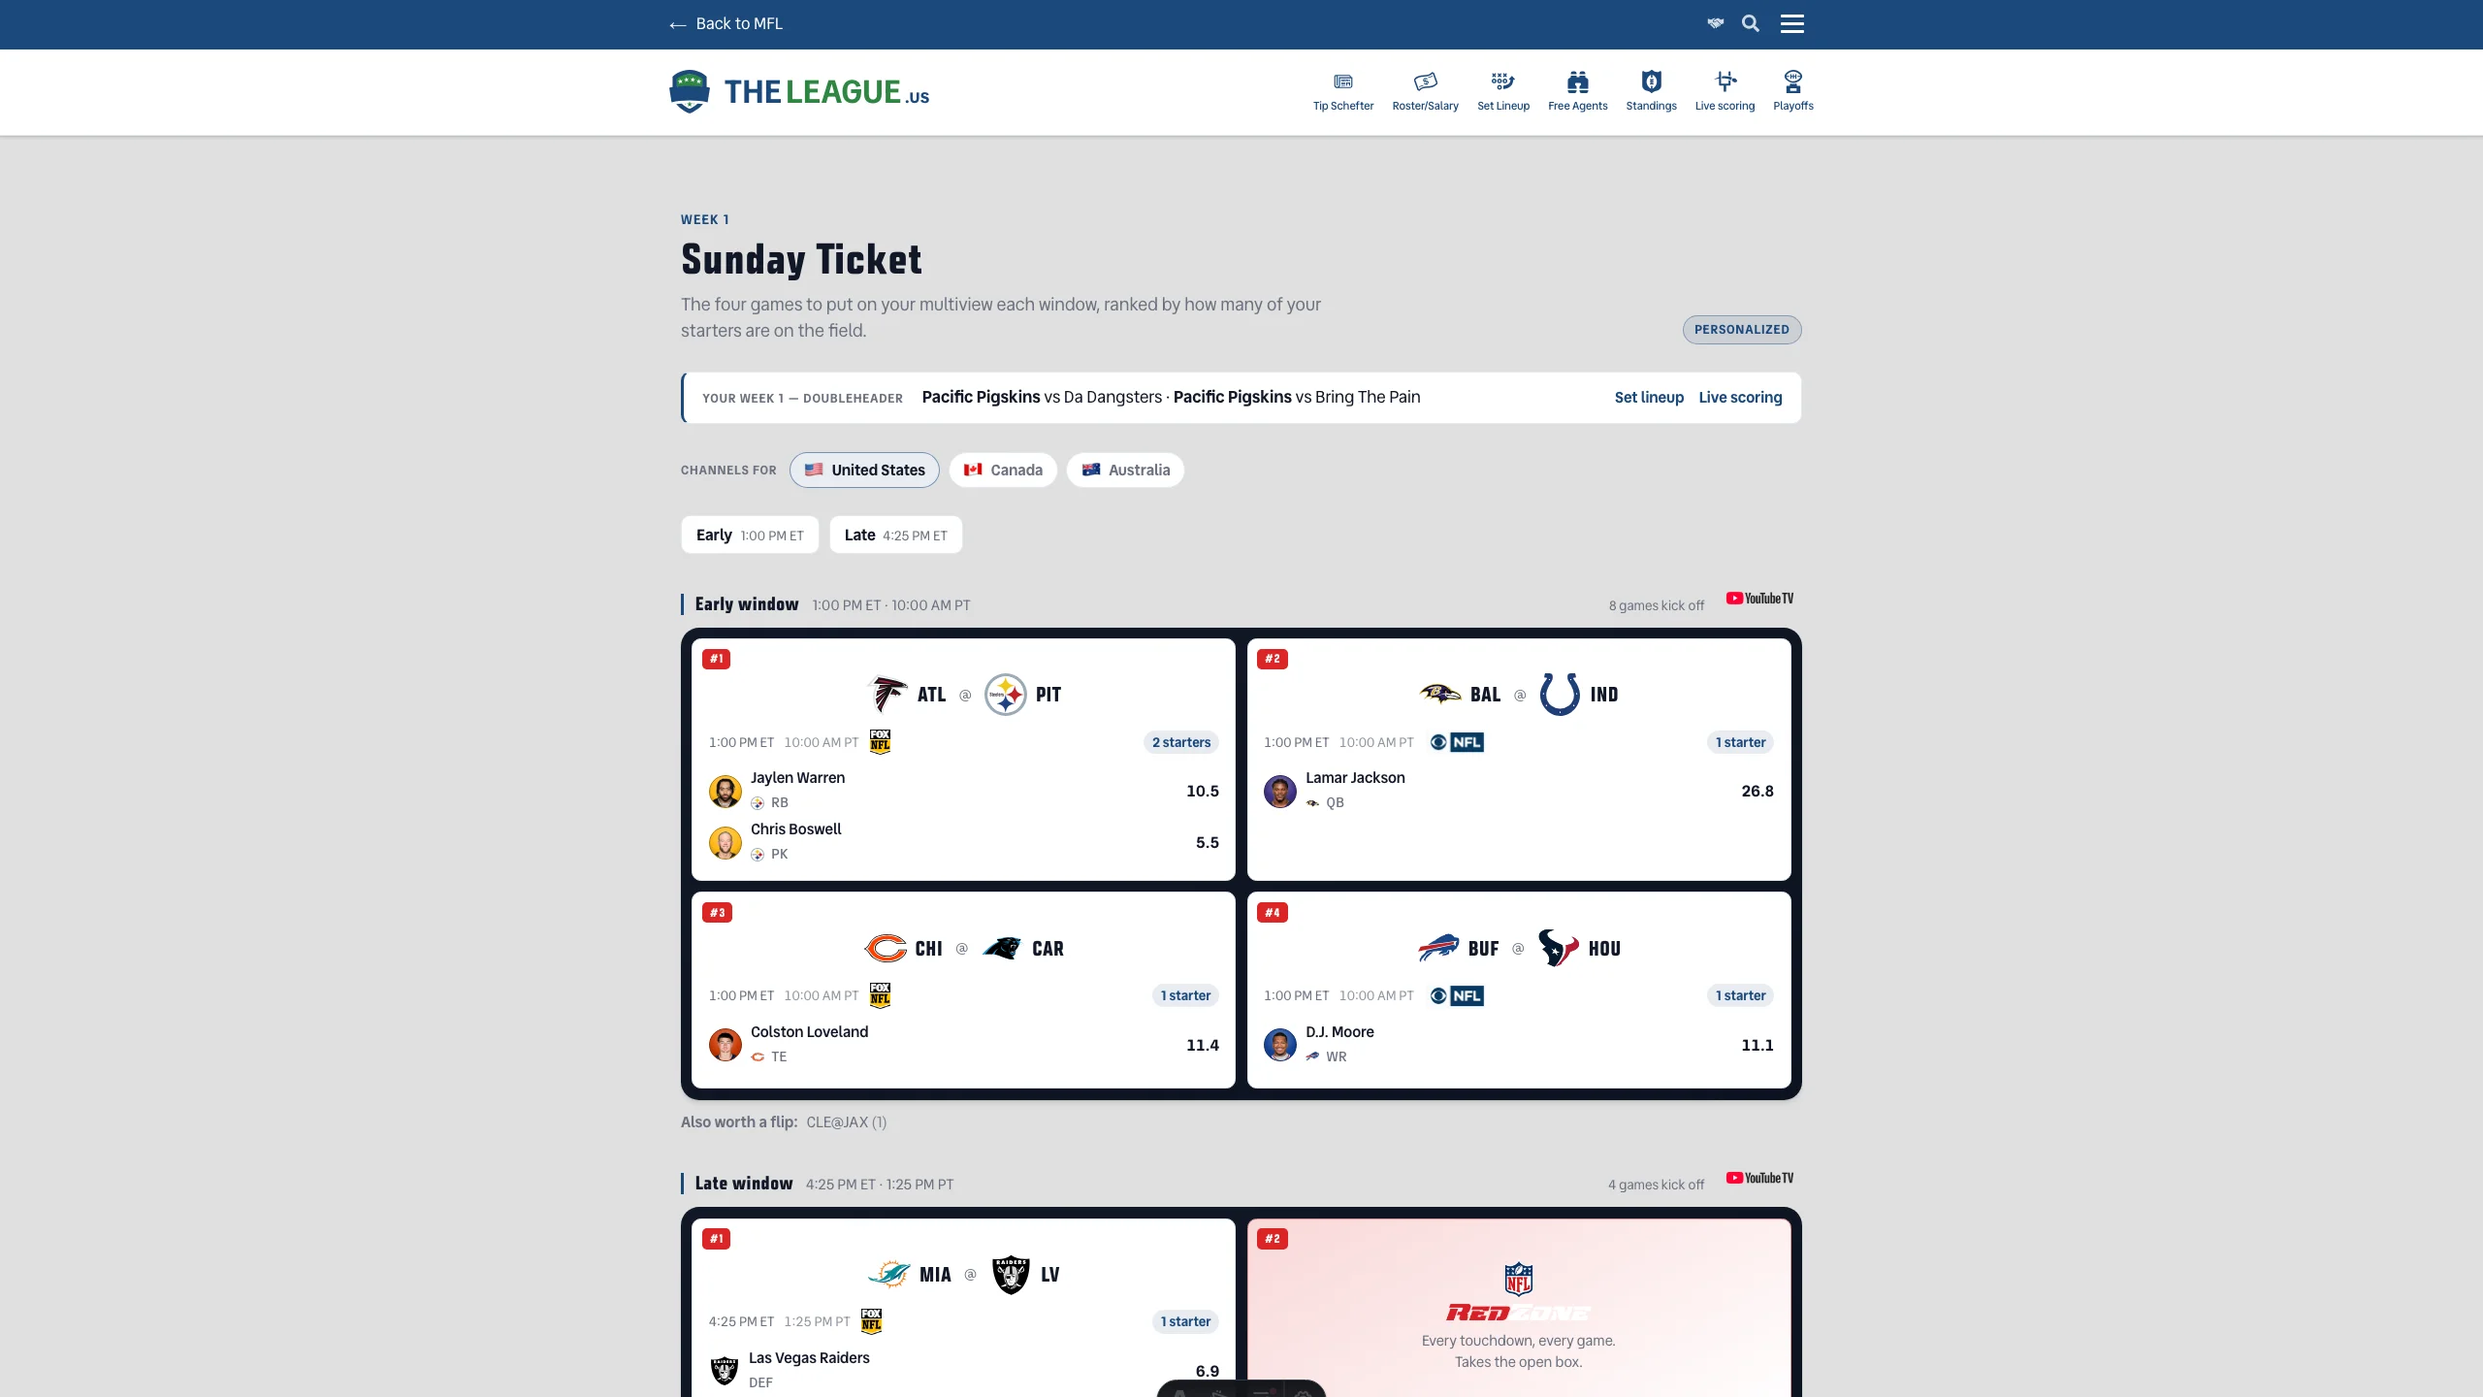
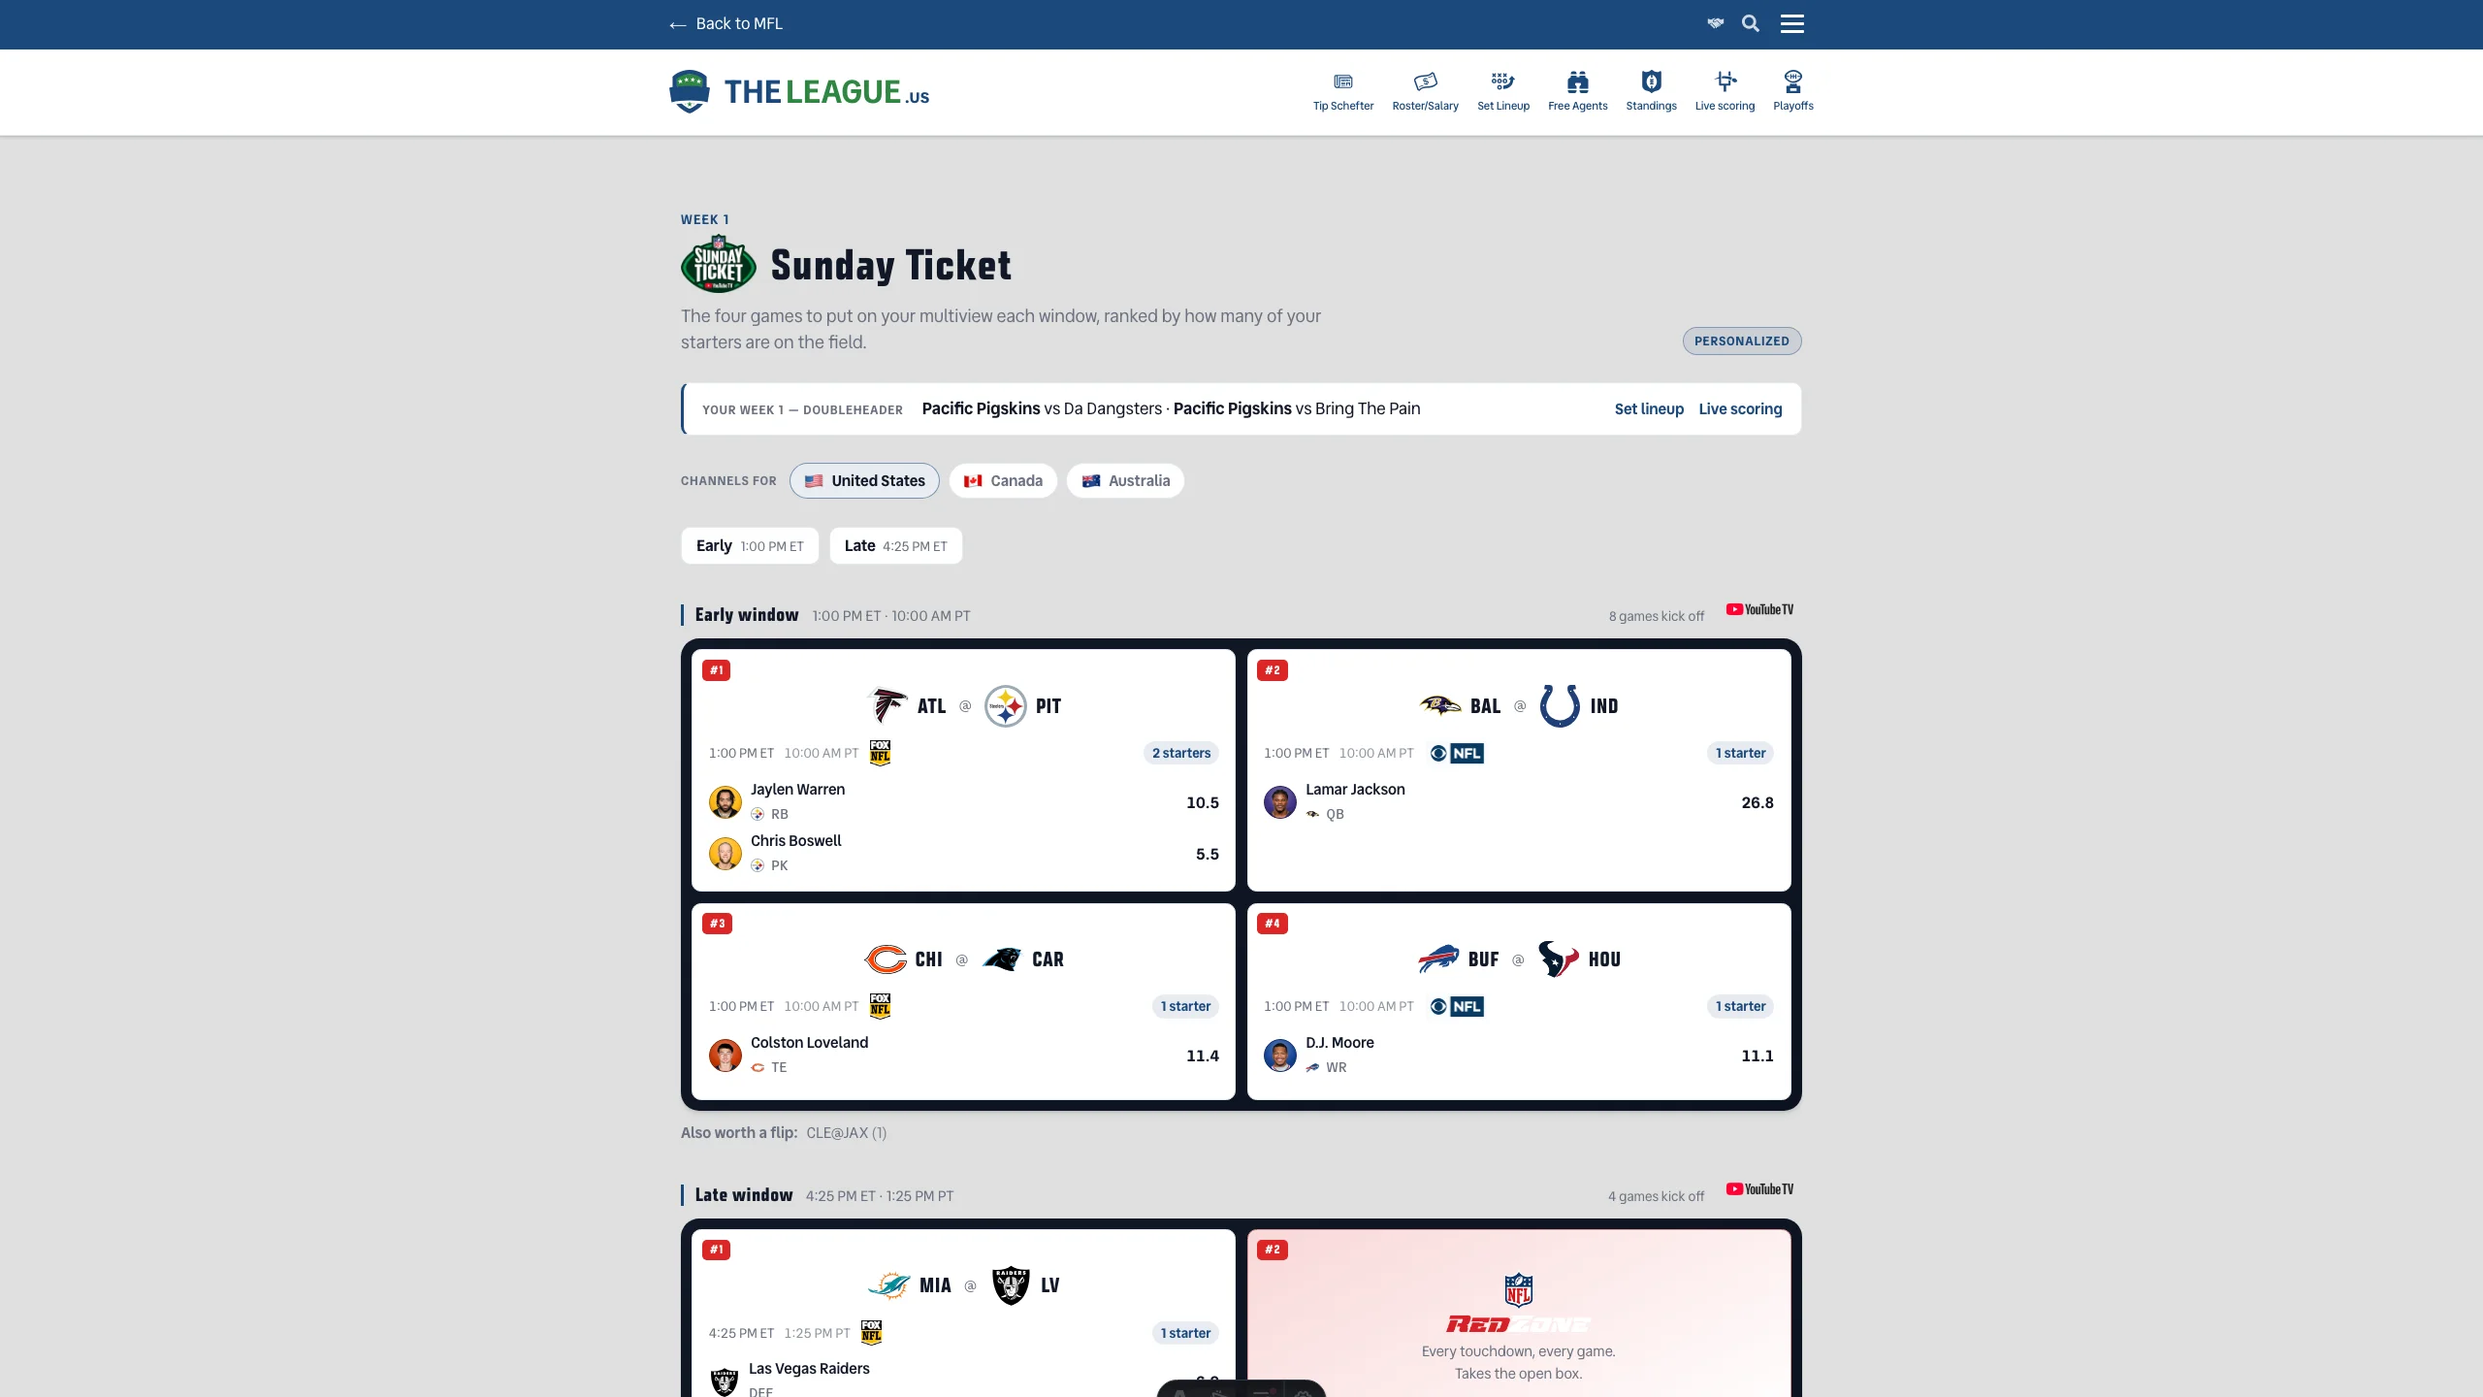
Sunday Ticket: the site's leagues by default, outside leagues folded; the official mark
- Default set is now the leagues this site runs (TheLeague, the AFL, Best
  Ball). Outside leagues from `myleagues` start OFF and sit behind one
  "Other leagues" chip (a native <details>, open when any is on) — an owner
  with a few test leagues, or in six other people's leagues, was getting a
  row of chips and every one of them counted. An outside league that is off
  is never fetched from MFL, so the rate-limited reads only happen for
  leagues actually turned on. `defaultLeagueSelection` owns the default;
  toggles collapse to it (`?leagues=default`), never to an empty board.
- The official NFL Sunday Ticket mark heads the page (public/assets/
  tv-logos/nfl-sunday-ticket.png, fair-use like the network marks). It is
  measured with the rest — 41.7% legible on the dark card, so it takes the
  crest ring under html.dark; manifest re-run.
- Stories: MultiLeague/Canada opt the outside league in explicitly;
  OutsideFolded pins the default.

diff --git a/src/utils/sunday-ticket-selection.ts b/src/utils/sunday-ticket-selection.ts
@@ -50,15 +50,26 @@ export interface BoardLeague {
 // ── League selection (URL param ↔ cookie) ────────────────────────────────
 
 /**
+ * The board's default set: every league this site runs (TheLeague, the AFL,
+ * Best Ball) that the owner is in. Outside leagues start OFF — an owner with a
+ * few test leagues, or in six other people's leagues, should not have all of
+ * them counted (and fetched) until they say so.
+ */
+export function defaultLeagueSelection(leagues: readonly Pick<BoardLeague, 'id' | 'registered'>[]): string[] {
+  return leagues.filter((l) => l.registered).map((l) => l.id);
+}
+
+/**
  * Parse a `?leagues=` value (or the cookie) against the leagues actually on
- * the board. `null` means "all" — the default, and also the answer to an
- * empty or garbage value, so a stale cookie can never blank the board.
- * Returns ids in the order given, deduplicated, unknown ids dropped.
+ * the board. `null` means "the default set" — also the answer to an empty or
+ * garbage value, so a stale cookie can never blank the board. Returns ids in
+ * the order given, deduplicated, unknown ids dropped. The literal `default`
+ * (and the older `all`) both mean null.
  */
 export function parseLeagueSelection(raw: string | null | undefined, available: readonly string[]): string[] | null {
   if (!raw) return null;
   const trimmed = raw.trim();
-  if (!trimmed || trimmed === 'all') return null;
+  if (!trimmed || trimmed === 'all' || trimmed === 'default') return null;
   const allowed = new Set(available);
   const seen = new Set<string>();
   const ids: string[] = [];
@@ -71,20 +82,30 @@ export function parseLeagueSelection(raw: string | null | undefined, available: 
   return ids.length > 0 ? ids : null;
 }
 
-/** The set after toggling `id` — never empty: turning off the last league turns everything back on. */
-export function toggleLeagueSelection(enabled: readonly string[], all: readonly string[], id: string): string[] | null {
+/**
+ * The set after toggling `id`, normalized to board order. Collapses to `null`
+ * (the default) when it equals the default set, so the URL and cookie stay
+ * clean; turning off the last league falls back to the default rather than
+ * an empty board.
+ */
+export function toggleLeagueSelection(
+  enabled: readonly string[],
+  all: readonly string[],
+  id: string,
+  defaults: readonly string[] = all,
+): string[] | null {
   const next = enabled.includes(id) ? enabled.filter((x) => x !== id) : [...enabled, id];
   if (next.length === 0) return null;
-  // Normalize to board order so two routes to the same set produce the same URL.
   const ordered = all.filter((x) => next.includes(x));
-  return ordered.length === all.length ? null : ordered;
+  const isDefault = ordered.length === defaults.length && ordered.every((x) => defaults.includes(x));
+  return isDefault ? null : ordered;
 }
 
 /** Build the page href for a selection, preserving `?week=` when it was set. */
 export function leagueSelectionHref(pathname: string, selection: string[] | null, week: number | null): string {
   const params = new URLSearchParams();
   if (week !== null) params.set('week', String(week));
-  params.set('leagues', selection ? selection.join(',') : 'all');
+  params.set('leagues', selection ? selection.join(',') : 'default');
   return `${pathname}?${params.toString()}`;
 }
 
@@ -120,7 +141,7 @@ export interface CookieJar {
 export function rememberSundayTicketChoices(url: URL, cookies: CookieJar): void {
   const opts = { maxAge: LEAGUE_SELECTION_MAX_AGE, path: '/', sameSite: 'lax' as const };
   const leagues = url.searchParams.get('leagues');
-  if (leagues !== null) cookies.set(LEAGUE_SELECTION_COOKIE, leagues.trim() || 'all', opts);
+  if (leagues !== null) cookies.set(LEAGUE_SELECTION_COOKIE, leagues.trim() || 'default', opts);
   const country = url.searchParams.get('country');
   if (country !== null) cookies.set(COUNTRY_COOKIE, country.trim().toUpperCase(), opts);
 }

diff --git a/tests/sunday-ticket-page.test.ts b/tests/sunday-ticket-page.test.ts
@@ -17,6 +17,7 @@ describe('parseLeagueSelection — URL param and cookie share one parser', () =>
     expect(parseLeagueSelection(null, BOARD)).toBeNull();
     expect(parseLeagueSelection('', BOARD)).toBeNull();
     expect(parseLeagueSelection('all', BOARD)).toBeNull();
+    expect(parseLeagueSelection('default', BOARD)).toBeNull();
     expect(parseLeagueSelection('99999,nope', BOARD)).toBeNull();
   });
 
@@ -30,20 +31,30 @@ describe('toggleLeagueSelection', () => {
     expect(toggleLeagueSelection(BOARD, BOARD, AFL.id)).toEqual([DEFAULT_LEAGUE.id, '55555']);
   });
 
-  it('turns a league back on, and a full set collapses to null (all)', () => {
-    expect(toggleLeagueSelection([DEFAULT_LEAGUE.id], BOARD, AFL.id)).toEqual([DEFAULT_LEAGUE.id, AFL.id]);
+  it('turns a league back on, and a set equal to the DEFAULT collapses to null', () => {
+    const defaults = [DEFAULT_LEAGUE.id, AFL.id]; // the leagues this site runs
+    expect(toggleLeagueSelection([DEFAULT_LEAGUE.id], BOARD, AFL.id, defaults)).toBeNull();
+    expect(toggleLeagueSelection([DEFAULT_LEAGUE.id, AFL.id], BOARD, '55555', defaults)).toEqual(BOARD);
+    // With no defaults given the full board is the default (the old behavior).
     expect(toggleLeagueSelection([DEFAULT_LEAGUE.id, '55555'], BOARD, AFL.id)).toBeNull();
   });
 
-  it('never leaves the board empty — turning off the last league turns everything on', () => {
-    expect(toggleLeagueSelection([AFL.id], BOARD, AFL.id)).toBeNull();
+  it('never leaves the board empty — turning off the last league falls back to the default', () => {
+    expect(toggleLeagueSelection([AFL.id], BOARD, AFL.id, [DEFAULT_LEAGUE.id, AFL.id])).toBeNull();
+  });
+
+  it('defaultLeagueSelection is the registered leagues only', async () => {
+    const { defaultLeagueSelection } = await import('../src/utils/sunday-ticket-selection');
+    expect(defaultLeagueSelection([
+      { id: DEFAULT_LEAGUE.id, registered: DEFAULT_LEAGUE }, { id: '55555', registered: null }, { id: AFL.id, registered: AFL },
+    ])).toEqual([DEFAULT_LEAGUE.id, AFL.id]);
   });
 });
 
 describe('leagueSelectionHref', () => {
   it('carries the explicit week and serializes the set or "all"', () => {
     expect(leagueSelectionHref('/theleague/sunday-ticket', [AFL.id], 7)).toBe(`/theleague/sunday-ticket?week=7&leagues=${AFL.id}`);
-    expect(leagueSelectionHref('/sunday-ticket', null, null)).toBe('/sunday-ticket?leagues=all');
+    expect(leagueSelectionHref('/sunday-ticket', null, null)).toBe('/sunday-ticket?leagues=default');
   });
 });
 
@@ -96,7 +107,7 @@ describe('rememberSundayTicketChoices — the route writes, the component reads'
     const { rememberSundayTicketChoices, LEAGUE_SELECTION_COOKIE, COUNTRY_COOKIE } = await import('../src/utils/sunday-ticket-selection');
     const j = jar();
     rememberSundayTicketChoices(new URL('https://x.test/theleague/sunday-ticket?country=ca&leagues='), j);
-    expect(j.writes).toEqual([[LEAGUE_SELECTION_COOKIE, 'all'], [COUNTRY_COOKIE, 'CA']]);
+    expect(j.writes).toEqual([[LEAGUE_SELECTION_COOKIE, 'default'], [COUNTRY_COOKIE, 'CA']]);
     const none = jar();
     rememberSundayTicketChoices(new URL('https://x.test/theleague/sunday-ticket?week=3'), none);
     expect(none.writes).toEqual([]);

diff --git a/src/styles/sunday-ticket.css b/src/styles/sunday-ticket.css
@@ -35,11 +35,17 @@
 }
 .st-page__title {
   margin: 0;
+  display: flex;
+  align-items: center;
+  gap: 0.75rem;
   font-family: var(--font-display);
   font-size: clamp(1.8rem, 4vw, 2.6rem);
   line-height: 1;
   color: var(--page-text);
 }
+/* The official mark sits with the headline; in dark mode it takes the crest
+   treatment from the tv-logo manifest like every other mark on the page. */
+.st-page__mark { height: 3.2rem; width: auto; object-fit: contain; flex: none; }
 .st-page__lede {
   margin: 0.5rem 0 0;
   max-width: 60ch;
@@ -161,6 +167,16 @@
 .st-chip--on .st-chip__dot { background: var(--league-accent); }
 .st-chip__ext { font-size: 0.7rem; opacity: 0.7; }
 .st-chip--all { border-style: dashed; }
+/* Outside leagues fold behind one chip; the disclosure opens when any is on. */
+.st-others { display: inline-flex; flex-wrap: wrap; align-items: center; gap: 0.45rem; }
+.st-others > summary { list-style: none; cursor: pointer; }
+.st-others > summary::-webkit-details-marker { display: none; }
+.st-others[open] > summary { border-color: color-mix(in srgb, var(--league-accent) 40%, transparent); }
+.st-others__count { font-weight: normal; color: var(--content-text-muted); font-size: 0.72rem; }
+.st-others__list { display: inline-flex; flex-wrap: wrap; gap: 0.45rem; padding-left: 0.2rem; border-left: 2px solid var(--card-border); }
+.st-chip--outside { font-weight: normal; }
+.st-chip__franchise { font-size: 0.7rem; color: var(--content-text-muted); }
+.st-chip__franchise::before { content: '·'; margin-right: 0.3rem; }
 .st-countries { display: flex; flex-wrap: wrap; align-items: center; gap: 0.45rem; }
 .st-chip__flag { font-size: 0.95rem; line-height: 1; }
 .st-jump { display: flex; gap: 0.5rem; }

diff --git a/stories/shared/SundayTicketBoard.stories.ts b/stories/shared/SundayTicketBoard.stories.ts
@@ -34,9 +34,14 @@ export default {
   },
 };
 
-/** Three leagues on, both windows, overflow under the early grid, two national games. */
+/** Three leagues on (the outside one opted in), both windows, overflow under the early grid, two national games. */
 export const MultiLeague = {
-  args: { slate: multiLeague, leagues, enabled: null },
+  args: { slate: multiLeague, leagues, enabled: leagues.map((l) => l.id) },
+};
+
+/** The default: the site's own leagues on, the outside league folded behind "Other leagues". */
+export const OutsideFolded = {
+  args: { slate: singleLeague, leagues, enabled: null },
 };
 
 /** One league toggled off — its chip goes hollow and an "All leagues" chip appears. */
@@ -46,7 +51,7 @@ export const OneLeagueOff = {
 
 /** Same board seen from Canada: CBS/FOX become DAZN, NBC becomes CTV, the header mark is DAZN. */
 export const Canada = {
-  args: { slate: multiLeague, leagues, enabled: null, country: 'CA' },
+  args: { slate: multiLeague, leagues, enabled: leagues.map((l) => l.id), country: 'CA' },
 };
 
 /** A single-league owner: no chips, no league line inside the boxes, RedZone fills the third box. */

diff --git a/tests/broadcast-channels.test.ts b/tests/broadcast-channels.test.ts
@@ -5,6 +5,7 @@ import mappings from '../data/theleague/broadcast-mappings.json';
 import {
   COUNTRY_CODES,
   REDZONE_LOGO,
+  SUNDAY_TICKET_LOGO,
   countryOptions,
   normalizeUsNetwork,
   parseCountry,
@@ -30,8 +31,9 @@ describe('broadcast-mappings.json — every mark it names is on disk', () => {
     expect(missing).toEqual([]);
   });
 
-  it('RedZone mark', () => {
+  it('RedZone and Sunday Ticket marks', () => {
     expect(existsSync(resolve(LOGOS, REDZONE_LOGO.split('/').pop()!))).toBe(true);
+    expect(existsSync(resolve(LOGOS, SUNDAY_TICKET_LOGO.split('/').pop()!))).toBe(true);
   });
 
   it('every country the resolver offers has a mapping with a default carrier (outside the US)', () => {

diff --git a/src/utils/broadcast-channels.ts b/src/utils/broadcast-channels.ts
@@ -147,3 +147,5 @@ export function countryTimeZones(country: CountryCode): KickoffZone[] {
 }
 
 export const REDZONE_LOGO = `${LOGO_BASE}nfl-red-zone.png`;
+/** The official NFL Sunday Ticket mark — the page headline. */
+export const SUNDAY_TICKET_LOGO = `${LOGO_BASE}nfl-sunday-ticket.png`;

diff --git a/docs/plans/sunday-ticket.md b/docs/plans/sunday-ticket.md
@@ -69,7 +69,7 @@ specs, whose one unbuilt idea this is.
 | Leagues | TheLeague + AFL routes, and BOTH show a combined board across every league the owner is in |
 | Outside leagues | Included — any league `myleagues` returns for the signed-in MFL account |
 | League list source | Fetched on visit with the session's MFL cookie, Redis-cached 1h |
-| Default set | Every league on; per-league toggle chips, choice remembered per device |
+| Default set | The leagues this site runs (TheLeague, AFL, Best Ball) on; outside leagues OFF and folded behind an "Other leagues" disclosure until toggled on — an owner with test leagues, or in six other people's leagues, should not have them counted (or fetched) unasked. Revised from "every league on" on 2026-09-05. |
 | Cross-league ranking | Starter count first, summed projections as tiebreak; per-league points shown inside each box |
 | Best Ball | On the board; no lineups, so every rostered player counts as a starter |
 | Commentary | None. No blurbs, no LLM run. Prose stays in Schefter's Saturday article |
